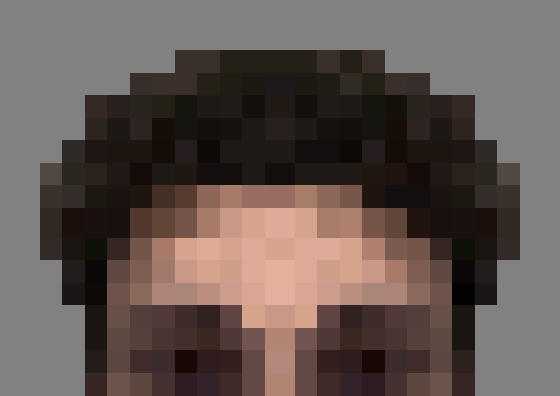
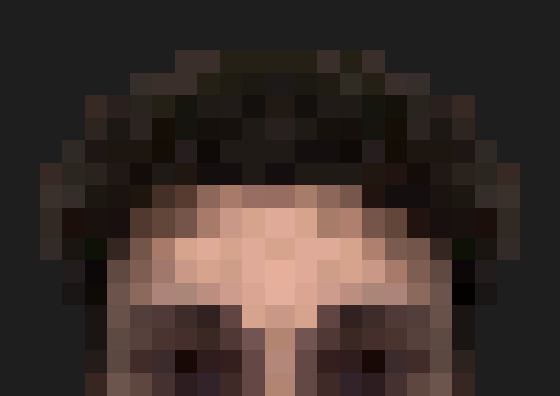
added bio, title style

diff --git a/index.html b/index.html
@@ -26,15 +26,41 @@
 
     <meta name="robots" content="index, follow">
 
+    <link rel="stylesheet" href="https://use.typekit.net/ptg6ffc.css">
     <link rel="stylesheet" href="style.css">
 </head>
 <body>
-    <h2>youssef's super awesome cool website</h2>
-    <h3 style="display: inline-flex; gap: 10px">
-        <a href="https://github.com/ysaleh03" target="_blank">github</a>
-        <a href="https://linkedin.com/in/ysaleh03/" target="_blank">linkedin</a>
-        <a href="https://students.cs.ubc.ca/~ysaleh03" target="_blank">ubc</a>
-        <a style="cursor:not-allowed">blog</a>
+    <img src="images/metadata/icon.png"
+         alt="pixelated youssef icon"
+         style="height: 50px">
+    <h1>Youssef's Website</h1>
+    <h3 style="display: inline-flex; column-gap: 15px; margin-top:-10px; margin-bottom:30px">
+        <a href="https://github.com/ysaleh03" target="_blank">GitHub</a>
+        <a href="https://linkedin.com/in/ysaleh03/" target="_blank">LinkedIn</a>
+        <a href="https://www.students.cs.ubc.ca/~ysaleh03" target="_blank">UBC</a>
+        <a style="cursor:not-allowed">Blog</a>
     </h3>
+<!--    <h3 style="display: inline-flex; gap: 10px">-->
+<!--        <a href="https://github.com/ysaleh03" target="_blank">github</a>-->
+<!--        <a href="https://linkedin.com/in/ysaleh03/" target="_blank">linkedin</a>-->
+<!--        <a href="https://www.students.cs.ubc.ca/~ysaleh03" target="_blank">ubc</a>-->
+<!--        <a style="cursor:not-allowed">blog</a>-->
+<!--    </h3>-->
+    <div>
+        <p>
+            Hi there! I'm Youssef.
+        </p>
+        <p>
+            I am a fourth-year Honours Computer Science undergraduate at
+            the University of British Columbia in Vancouver, BC.
+            My main interest is in Formal Verification and Algorithm Design and Analysis,
+            and I am eager to explore research opportunities in the field.
+        </p>
+        <p>
+            Currently, I am an Undergraduate Teaching Assistant at UBC.
+            <br>
+            I also serve as President of the UBC Computer Science Student Society.
+        </p>
+    </div>
 </body>
 </html>

diff --git a/style.css b/style.css
@@ -1,6 +1,14 @@
 :root {
     --text: #1e1e1e;
-    --bg: #fff;
+    --bg: #d5d0ca;
+}
+
+h1 {
+    font-family: lores-21-serif, sans-serif;
+    font-weight: 700;
+    font-style: normal;
+    font-size: 80px;
+    margin:30px;
 }
 
 body {
@@ -13,14 +21,14 @@ body {
 
 @media (prefers-color-scheme: dark) {
     :root {
-        --text: #fff;
+        --text: #d5d0ca;
         --bg: #1e1e1e;
     }
 }
 
 a {
-    display: inline-block; /* Ensures the transform effect works correctly */
-    transition: transform 0.2s ease; /* Smooth transition */
+    display: inline-block;
+    transition: transform 0.2s ease;
 }
 
 a:link {
@@ -34,5 +42,15 @@ a:visited {
 }
 
 a:hover {
-    transform: translateY(-1px); /* Moves the link up by 2 pixels */
+    transform: translateY(-1px);
+}
+
+p {
+    text-align: start;
+    max-width: 600px;
+    margin: 0 auto;
+}
+
+p + p {
+    margin-top: 10px;
 }
